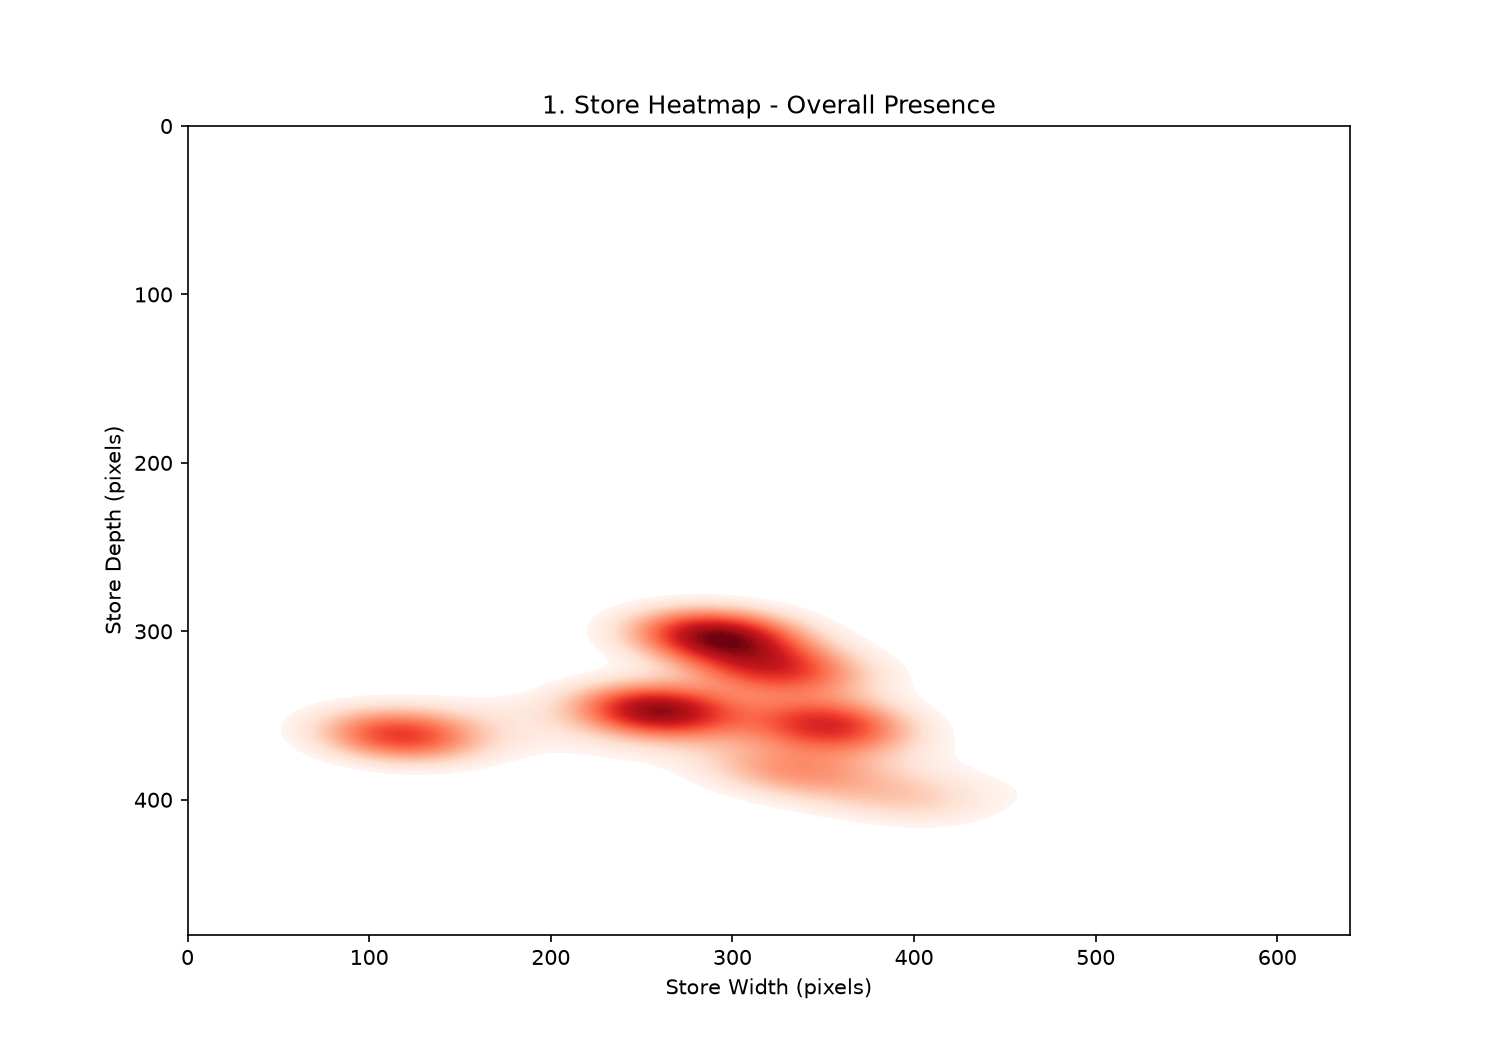
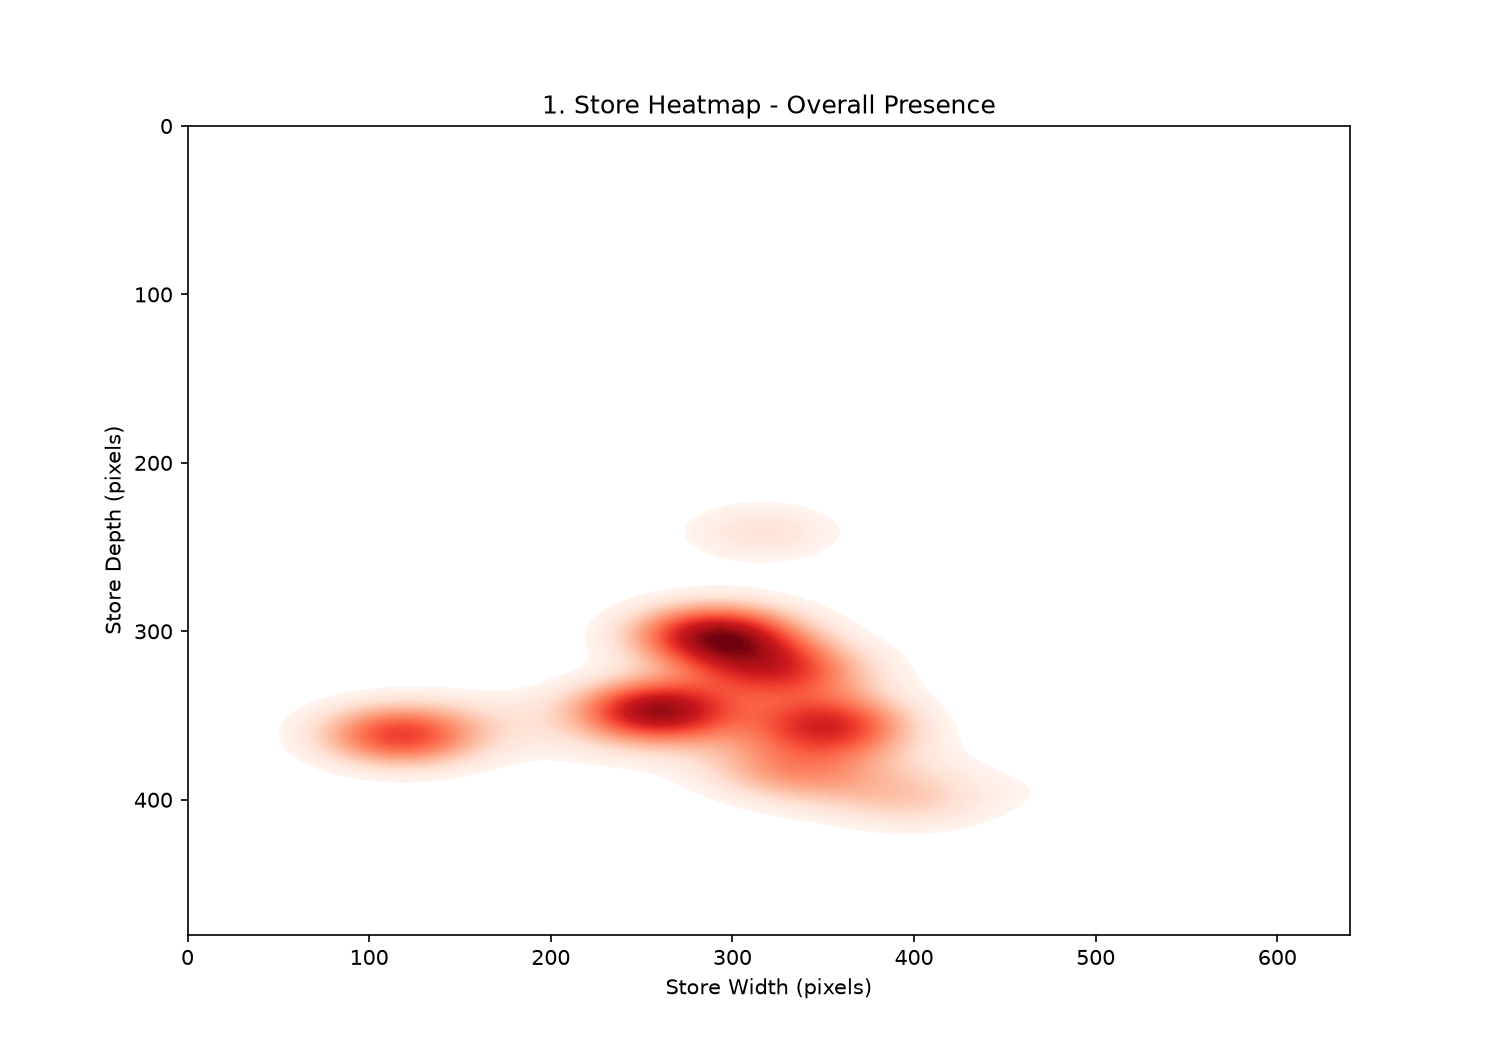
Reverted Heatmaps.js to stable working version

Changed region(s): [[0.368, 0.4876, 0.6133, 0.7314], [0.2147, 0.6705, 0.3067, 0.7314]]

diff --git a/frontend/src/pages/Heatmaps.css b/frontend/src/pages/Heatmaps.css
@@ -83,3 +83,4 @@
   border-radius: 8px;
   border: 1px solid #eef2f6;
 }
+

diff --git a/Backend/main.py b/Backend/main.py
@@ -357,3 +357,104 @@ def detect_video_traffic(file: UploadFile = File(...)):
         "max_simultaneous_people": max_simultaneous,
         "note": "Validated multi-person tracking on uploaded video footage, confirming the system works on real-world retail traffic, not just live webcam input."
     }
+
+@app.post("/tracking/start-session")
+def start_tracking_session(duration_seconds: int = 20):
+    import cv2
+    from ultralytics import YOLO
+    import time
+
+    yolo_model = YOLO("yolov8n.pt")
+    face_cascade = cv2.CascadeClassifier('haarcascade_frontalface_default.xml')
+    eye_cascade = cv2.CascadeClassifier('haarcascade_eye.xml')
+
+    db_init = SessionLocal()
+    shelves_in_db = db_init.query(models.Shelf).all()
+    db_init.close()
+
+    zone_to_shelf = {}
+    if len(shelves_in_db) >= 3:
+        zone_to_shelf["Zone A (Left)"] = shelves_in_db[0].shelf_name
+        zone_to_shelf["Zone B (Middle)"] = shelves_in_db[1].shelf_name
+        zone_to_shelf["Zone C (Right)"] = shelves_in_db[2].shelf_name
+    else:
+        zone_to_shelf["Zone A (Left)"] = "Zone A (Left)"
+        zone_to_shelf["Zone B (Middle)"] = "Zone B (Middle)"
+        zone_to_shelf["Zone C (Right)"] = "Zone C (Right)"
+
+    def get_zone(center_x, frame_width):
+        if center_x < frame_width / 3:
+            raw_zone = "Zone A (Left)"
+        elif center_x < 2 * frame_width / 3:
+            raw_zone = "Zone B (Middle)"
+        else:
+            raw_zone = "Zone C (Right)"
+        return zone_to_shelf.get(raw_zone, raw_zone)
+
+    cap = cv2.VideoCapture(0)
+    if not cap.isOpened():
+        raise HTTPException(status_code=400, detail="Could not access webcam")
+
+    frame_width = int(cap.get(cv2.CAP_PROP_FRAME_WIDTH))
+    person_state = {}
+    records_saved = 0
+    start_time = time.time()
+
+    while time.time() - start_time < duration_seconds:
+        ret, frame = cap.read()
+        if not ret:
+            break
+
+        frame = cv2.flip(frame, 1)
+        gray = cv2.cvtColor(frame, cv2.COLOR_BGR2GRAY)
+
+        results = yolo_model.track(frame, persist=True, verbose=False, classes=[0])
+
+        faces = face_cascade.detectMultiScale(gray, scaleFactor=1.1, minNeighbors=5, minSize=(80, 80))
+        attention_status = "Looking Away"
+        for (fx, fy, fw, fh) in faces:
+            face_gray = gray[fy:fy + fh, fx:fx + fw]
+            eyes = eye_cascade.detectMultiScale(face_gray, scaleFactor=1.1, minNeighbors=5)
+            if len(eyes) >= 2:
+                attention_status = "Attentive"
+            break
+
+        if results[0].boxes.id is not None:
+            for box, track_id in zip(results[0].boxes.xyxy, results[0].boxes.id):
+                x1, y1, x2, y2 = box.tolist()
+                center_x = (x1 + x2) / 2
+                center_y = (y1 + y2) / 2
+                track_id = int(track_id)
+                zone = get_zone(center_x, frame_width)
+
+                db_pos = SessionLocal()
+                point = models.PositionPoint(person_track_id=track_id, x=int(center_x), y=int(center_y))
+                db_pos.add(point)
+                db_pos.commit()
+                db_pos.close()
+
+                if track_id not in person_state:
+                    person_state[track_id] = {"zone": zone, "attention": attention_status, "state_start_time": time.time()}
+                else:
+                    prev = person_state[track_id]
+                    if prev["zone"] != zone or prev["attention"] != attention_status:
+                        duration = time.time() - prev["state_start_time"]
+                        db = SessionLocal()
+                        record = models.AttentionRecord(
+                            person_track_id=track_id, zone=prev["zone"],
+                            attention_status=prev["attention"], duration_seconds=int(duration)
+                        )
+                        db.add(record)
+                        db.commit()
+                        db.close()
+                        records_saved += 1
+                        person_state[track_id] = {"zone": zone, "attention": attention_status, "state_start_time": time.time()}
+
+    cap.release()
+
+    return {
+        "status": "Tracking session complete",
+        "duration_seconds": duration_seconds,
+        "unique_people_tracked": len(person_state),
+        "attention_records_saved": records_saved
+    }
